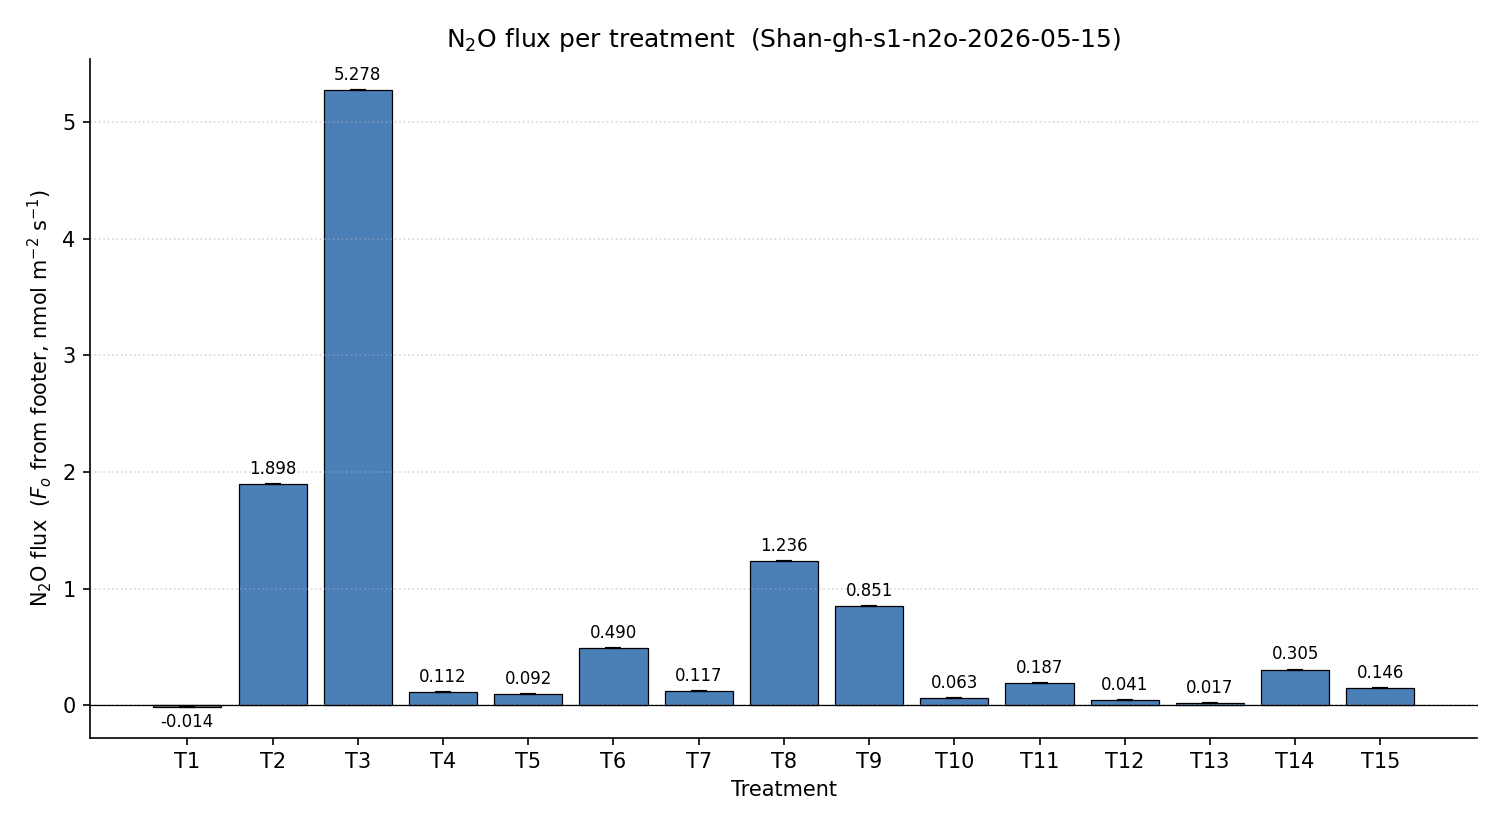
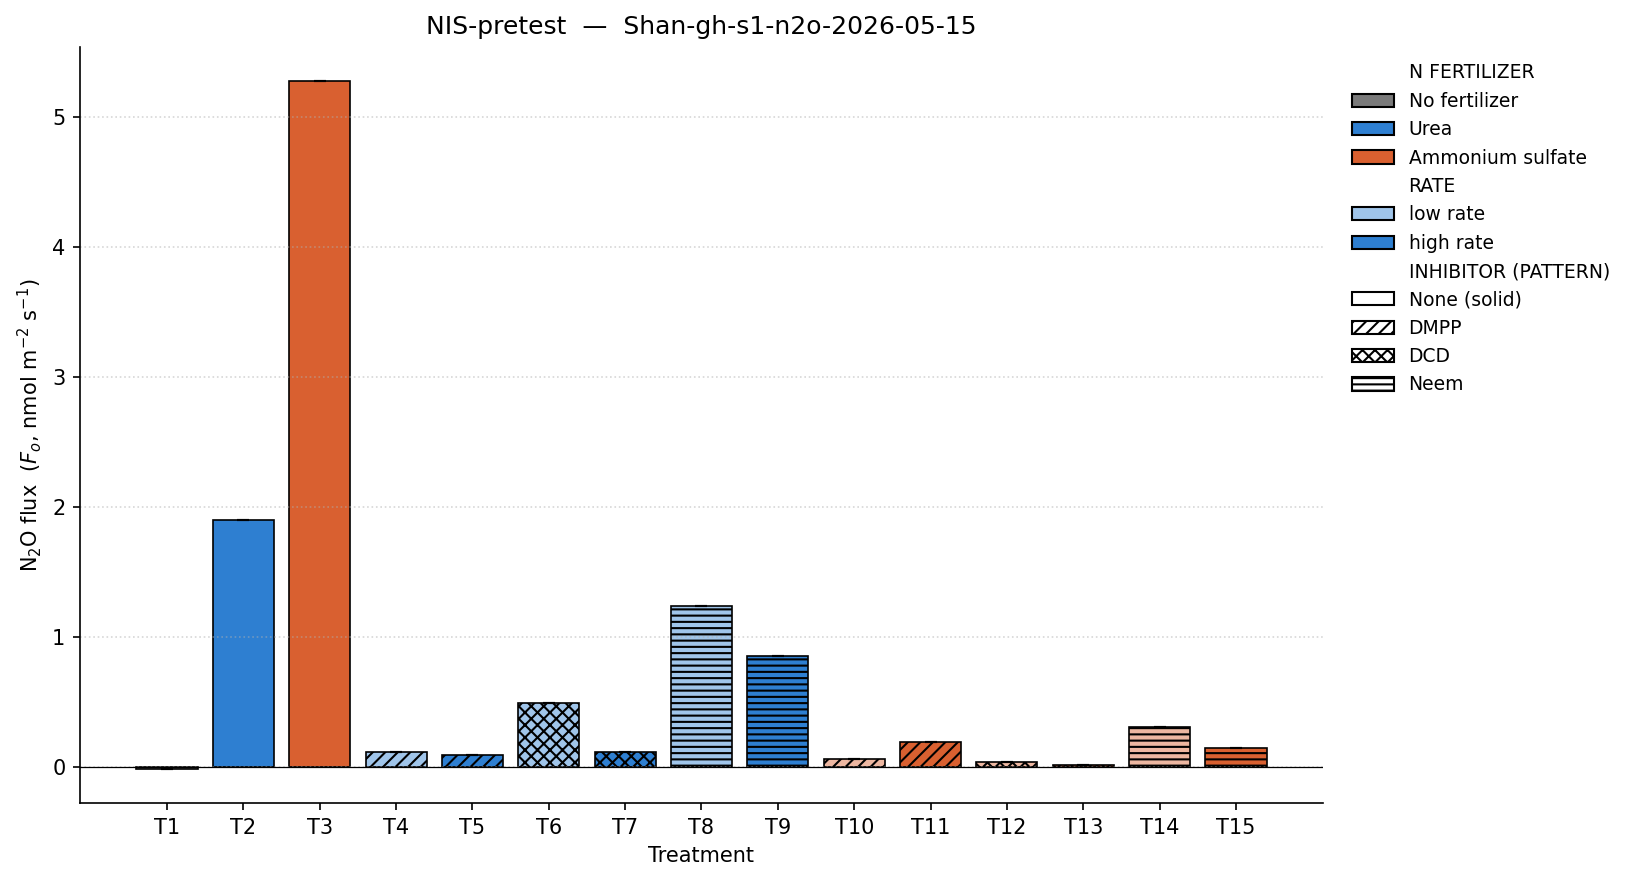
Add project-aware styling: color/intensity/hatch channels
Introduce Project + StyleChannel: each project code maps treatments to
a tuple of categorical variables, and each variable is bound to a visual
channel (facecolor, intensity, hatch). Register NIS-pretest with
Fertilizer=color, rate=intensity, NI=hatch over T1-T15.

diff --git a/plot_n2o_flux.py b/plot_n2o_flux.py
@@ -1,29 +1,46 @@
-"""Extract N2O flux from each treatment in the dataset and plot.
+"""Extract N2O flux per treatment and plot, styled by experimental design.
 
-Naming rule:
+Dataset-name rules:
 - "T[n]"            -> single observation, plot directly.
 - "R[r]T[t]C[c]"    -> R=replicate, T=treatment, C=subsample.
                        Average subsamples (C) within each (T, R), then
                        compute mean +- SE across replicates for each T.
+
+Plot styling rules:
+- A "project code" maps each treatment to a tuple of categorical variables
+  (e.g. NIS-pretest -> (NI, Fertilizer, rate)).
+- Each variable is assigned to a visual channel: face color, color
+  intensity (light/dark), or hatch pattern. The channel assignment is
+  declared per project so the same engine can render any design.
+
+Add a new project by extending PROJECTS at the bottom of this file.
 """
 
 from __future__ import annotations
 
+import argparse
 import json
 import re
 import sys
 from collections import defaultdict
+from dataclasses import dataclass, field
 from pathlib import Path
+from typing import Callable
 
+import matplotlib.patches as mpatches
 import matplotlib.pyplot as plt
 import numpy as np
 
-DATA_FILE = Path(__file__).parent / "data.json"
-OUT_FILE = Path(__file__).parent / "n2o_flux.png"
+DATA_FILE_DEFAULT = Path(__file__).parent / "data.json"
+OUT_FILE_DEFAULT = Path(__file__).parent / "n2o_flux.png"
 
 RTC_RE = re.compile(r"^R(\d+)T(\d+)C(\d+)$")
 T_RE = re.compile(r"^T(\d+)$")
 
+
+# ---------------------------------------------------------------------------
+# Flux extraction
+# ---------------------------------------------------------------------------
 
 def get_n2o_flux(rep_entry: dict) -> float | None:
     for fx in rep_entry.get("footer", {}).get("fluxes", []):
@@ -33,10 +50,6 @@ def get_n2o_flux(rep_entry: dict) -> float | None:
 
 
 def collect(data: dict):
-    """Returns (simple_T, rtc) where:
-       simple_T: list of (t_index, [flux values across reps])
-       rtc:      dict t_index -> dict rep -> list of subsample fluxes
-    """
     simple_T: dict[int, list[float]] = defaultdict(list)
     rtc: dict[int, dict[int, list[float]]] = defaultdict(lambda: defaultdict(list))
 
@@ -49,16 +62,14 @@ def collect(data: dict):
 
         if m_t:
             t_idx = int(m_t.group(1))
-            for rk, rv in reps.items():
+            for rv in reps.values():
                 f = get_n2o_flux(rv)
                 if f is not None:
                     simple_T[t_idx].append(f)
         elif m_rtc:
             r_idx = int(m_rtc.group(1))
             t_idx = int(m_rtc.group(2))
-            # Subsample id is encoded in the dataset name; replicates may be
-            # split across multiple datasets or stored as REP_x inside one.
-            for rk, rv in reps.items():
+            for rv in reps.values():
                 f = get_n2o_flux(rv)
                 if f is not None:
                     rtc[t_idx][r_idx].append(f)
@@ -69,11 +80,10 @@ def collect(data: dict):
     return simple_T, rtc
 
 
-def reduce_rtc(rtc: dict[int, dict[int, list[float]]]):
-    """For each treatment: average subsamples within rep, then mean +- SE across reps."""
-    out: dict[int, tuple[float, float, int]] = {}
+def reduce_rtc(rtc):
+    out = {}
     for t_idx, reps in rtc.items():
-        rep_means = [np.mean(vals) for vals in reps.values() if len(vals) > 0]
+        rep_means = [np.mean(v) for v in reps.values() if len(v) > 0]
         n = len(rep_means)
         if n == 0:
             continue
@@ -83,11 +93,160 @@ def reduce_rtc(rtc: dict[int, dict[int, list[float]]]):
     return out
 
 
-def main():
-    with DATA_FILE.open() as f:
-        data = json.load(f)
+# ---------------------------------------------------------------------------
+# Project / styling definitions
+# ---------------------------------------------------------------------------
 
+@dataclass
+class StyleChannel:
+    """A categorical variable + how to render it on a bar."""
+    name: str                       # e.g. "Fertilizer"
+    levels: list                    # ordered category list, in legend order
+    encoding: str                   # "color" | "intensity" | "hatch"
+    palette: dict | None = None     # for color/intensity/hatch lookup
+    legend_title: str | None = None
+
+
+@dataclass
+class Project:
+    code: str
+    treatments: dict                # t_index -> dict of variable->level
+    channels: list[StyleChannel]    # one per variable used for styling
+
+    def style_for(self, t_idx: int) -> dict:
+        """Return facecolor, hatch, edgecolor for treatment t_idx."""
+        meta = self.treatments[t_idx]
+
+        face = "#bdbdbd"
+        intensity = "high"   # default to full saturation
+        hatch = ""
+
+        # First pass: pick base color from the "color" channel.
+        for ch in self.channels:
+            level = meta.get(ch.name)
+            if ch.encoding == "color":
+                face = ch.palette.get(level, face)
+
+        # Second pass: apply intensity (light/dark variants of base color).
+        for ch in self.channels:
+            level = meta.get(ch.name)
+            if ch.encoding == "intensity":
+                intensity = ch.palette.get(level, intensity)
+
+        # Third pass: hatch pattern.
+        for ch in self.channels:
+            level = meta.get(ch.name)
+            if ch.encoding == "hatch":
+                hatch = ch.palette.get(level, "")
+
+        face = _apply_intensity(face, intensity)
+        return {"facecolor": face, "hatch": hatch, "edgecolor": "black"}
+
+
+def _apply_intensity(hex_color: str, intensity: str) -> str:
+    """Lighten the base hex color when intensity == 'low'."""
+    if intensity != "low":
+        return hex_color
+    r = int(hex_color[1:3], 16)
+    g = int(hex_color[3:5], 16)
+    b = int(hex_color[5:7], 16)
+    # Mix 55% toward white.
+    mix = 0.55
+    r = int(r + (255 - r) * mix)
+    g = int(g + (255 - g) * mix)
+    b = int(b + (255 - b) * mix)
+    return f"#{r:02x}{g:02x}{b:02x}"
+
+
+# ---------------------------------------------------------------------------
+# Project registry
+# ---------------------------------------------------------------------------
+
+def _nis_pretest() -> Project:
+    NO = "NO"
+    treatments = {
+        1:  {"NI": NO,     "Fertilizer": NO,                "rate": NO},
+        2:  {"NI": NO,     "Fertilizer": "Urea",            "rate": NO},
+        3:  {"NI": NO,     "Fertilizer": "Ammonium sulfate","rate": NO},
+        4:  {"NI": "DMPP", "Fertilizer": "Urea",            "rate": "low"},
+        5:  {"NI": "DMPP", "Fertilizer": "Urea",            "rate": "high"},
+        6:  {"NI": "DCD",  "Fertilizer": "Urea",            "rate": "low"},
+        7:  {"NI": "DCD",  "Fertilizer": "Urea",            "rate": "high"},
+        8:  {"NI": "Neem", "Fertilizer": "Urea",            "rate": "low"},
+        9:  {"NI": "Neem", "Fertilizer": "Urea",            "rate": "high"},
+        10: {"NI": "DMPP", "Fertilizer": "Ammonium sulfate","rate": "low"},
+        11: {"NI": "DMPP", "Fertilizer": "Ammonium sulfate","rate": "high"},
+        12: {"NI": "DCD",  "Fertilizer": "Ammonium sulfate","rate": "low"},
+        13: {"NI": "DCD",  "Fertilizer": "Ammonium sulfate","rate": "high"},
+        14: {"NI": "Neem", "Fertilizer": "Ammonium sulfate","rate": "low"},
+        15: {"NI": "Neem", "Fertilizer": "Ammonium sulfate","rate": "high"},
+    }
+    channels = [
+        StyleChannel(
+            name="Fertilizer",
+            levels=["NO", "Urea", "Ammonium sulfate"],
+            encoding="color",
+            palette={"NO": "#7a7a7a",
+                     "Urea": "#2e7fd1",
+                     "Ammonium sulfate": "#d96030"},
+            legend_title="N FERTILIZER",
+        ),
+        StyleChannel(
+            name="rate",
+            levels=["low", "high"],
+            encoding="intensity",
+            palette={"low": "low", "high": "high"},
+            legend_title="RATE",
+        ),
+        StyleChannel(
+            name="NI",
+            levels=["NO", "DMPP", "DCD", "Neem"],
+            encoding="hatch",
+            palette={"NO": "", "DMPP": "////",
+                     "DCD": "xxxx", "Neem": "----"},
+            legend_title="INHIBITOR (PATTERN)",
+        ),
+    ]
+    return Project(code="NIS-pretest", treatments=treatments, channels=channels)
+
+
+PROJECTS: dict[str, Callable[[], Project]] = {
+    "NIS-pretest": _nis_pretest,
+}
+
+
+# ---------------------------------------------------------------------------
+# Plotting
+# ---------------------------------------------------------------------------
+
+def _legend_handles(project: Project) -> list:
+    handles = []
+    for ch in project.channels:
+        handles.append(mpatches.Patch(
+            color="none", label=ch.legend_title or ch.name))
+        for lvl in ch.levels:
+            label = "No fertilizer" if (ch.name == "Fertilizer" and lvl == "NO") \
+                else ("None (solid)" if (ch.name == "NI" and lvl == "NO") else str(lvl))
+            label = f"{label} rate" if ch.name == "rate" else label
+
+            if ch.encoding == "color":
+                handles.append(mpatches.Patch(
+                    facecolor=ch.palette[lvl], edgecolor="black", label=label))
+            elif ch.encoding == "intensity":
+                base = "#2e7fd1"  # neutral demo base
+                handles.append(mpatches.Patch(
+                    facecolor=_apply_intensity(base, ch.palette[lvl]),
+                    edgecolor="black", label=label))
+            elif ch.encoding == "hatch":
+                handles.append(mpatches.Patch(
+                    facecolor="white", edgecolor="black",
+                    hatch=ch.palette[lvl], label=label))
+    return handles
+
+
+def plot(project: Project, data: dict, out_file: Path):
     simple_T, rtc = collect(data)
+    rtc_reduced = reduce_rtc(rtc)
 
     t_indices = sorted(set(simple_T) | set(rtc))
     if not t_indices:
@@ -95,52 +254,67 @@ def main():
         sys.exit(1)
 
     labels, means, errs = [], [], []
-    rtc_reduced = reduce_rtc(rtc)
-
     for t in t_indices:
         labels.append(f"T{t}")
         if t in rtc_reduced:
             m, se, _ = rtc_reduced[t]
-            means.append(m)
-            errs.append(se)
         else:
             vals = simple_T[t]
-            means.append(float(np.mean(vals)))
-            errs.append(float(np.std(vals, ddof=1) / np.sqrt(len(vals)))
-                       if len(vals) > 1 else 0.0)
+            m = float(np.mean(vals))
+            se = float(np.std(vals, ddof=1) / np.sqrt(len(vals))) \
+                if len(vals) > 1 else 0.0
+        means.append(m)
+        errs.append(se)
 
-    fig, ax = plt.subplots(figsize=(10, 5.5))
+    fig, ax = plt.subplots(figsize=(11, 6))
     x = np.arange(len(labels))
-    colors = ["#4a7fb8" if m >= 0 else "#888888" for m in means]
-    bars = ax.bar(x, means, yerr=errs, capsize=4,
-                  color=colors, edgecolor="black", linewidth=0.6)
+
+    for xi, t, m, se in zip(x, t_indices, means, errs):
+        style = project.style_for(t) if t in project.treatments \
+            else {"facecolor": "#bdbdbd", "hatch": "", "edgecolor": "black"}
+        ax.bar(xi, m, yerr=se, capsize=3, linewidth=0.8, **style)
 
     ax.set_xticks(x)
     ax.set_xticklabels(labels)
     ax.axhline(0, color="black", linewidth=0.6)
     ax.set_xlabel("Treatment")
-    ax.set_ylabel(r"N$_2$O flux  ($F_o$ from footer, nmol m$^{-2}$ s$^{-1}$)")
-    ax.set_title(f"N$_2$O flux per treatment  ({data.get('name','')})")
+    ax.set_ylabel(r"N$_2$O flux  ($F_o$, nmol m$^{-2}$ s$^{-1}$)")
+    ax.set_title(f"{project.code}  —  {data.get('name','')}")
     ax.grid(axis="y", linestyle=":", alpha=0.5)
     ax.spines["top"].set_visible(False)
     ax.spines["right"].set_visible(False)
 
-    for xi, m, se in zip(x, means, errs):
-        y = m + (se if m >= 0 else -se)
-        va = "bottom" if m >= 0 else "top"
-        ax.annotate(f"{m:.3f}", (xi, y),
-                    ha="center", va=va, fontsize=8,
-                    xytext=(0, 3 if m >= 0 else -3),
-                    textcoords="offset points")
+    ax.legend(handles=_legend_handles(project),
+              loc="upper left", bbox_to_anchor=(1.01, 1.0),
+              frameon=False, fontsize=9, handlelength=2.2)
 
     fig.tight_layout()
-    fig.savefig(OUT_FILE, dpi=150)
-    print(f"Wrote {OUT_FILE}")
+    fig.savefig(out_file, dpi=150, bbox_inches="tight")
+    print(f"Wrote {out_file}")
 
     print("\nValues used:")
     print(f"{'Treatment':<10}{'Mean':>12}{'SE':>12}")
     for lab, m, se in zip(labels, means, errs):
         print(f"{lab:<10}{m:>12.5f}{se:>12.5f}")
+
+
+def main():
+    ap = argparse.ArgumentParser()
+    ap.add_argument("--project", default="NIS-pretest",
+                    help="Project code (registered in PROJECTS).")
+    ap.add_argument("--data", type=Path, default=DATA_FILE_DEFAULT)
+    ap.add_argument("--out", type=Path, default=OUT_FILE_DEFAULT)
+    args = ap.parse_args()
+
+    if args.project not in PROJECTS:
+        print(f"Unknown project '{args.project}'. "
+              f"Known: {list(PROJECTS)}", file=sys.stderr)
+        sys.exit(2)
+
+    project = PROJECTS[args.project]()
+    with args.data.open() as f:
+        data = json.load(f)
+    plot(project, data, args.out)
 
 
 if __name__ == "__main__":
